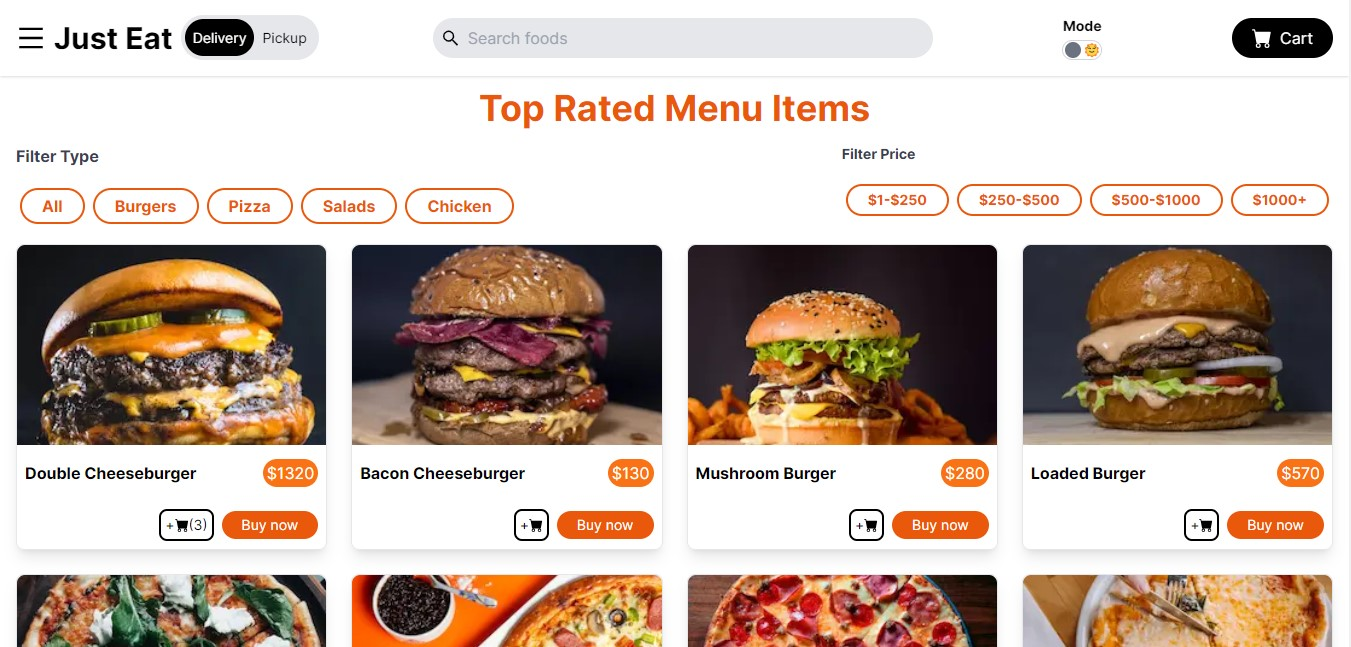
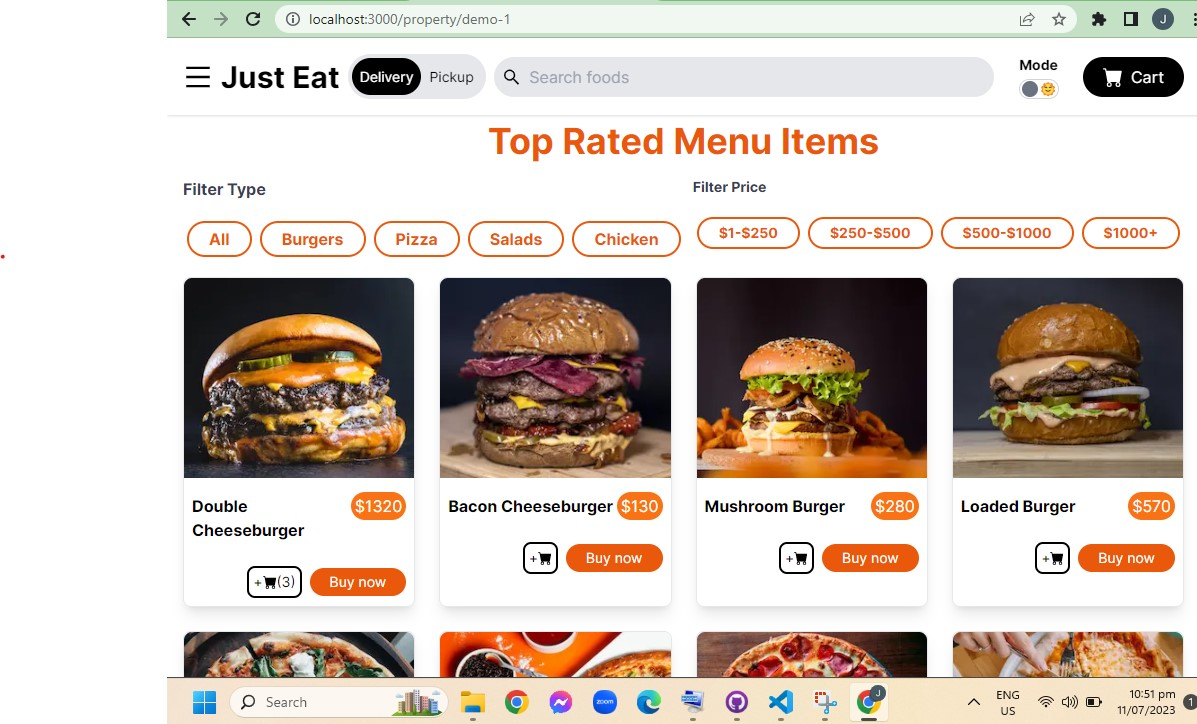
fixed the sizing of the images in projects component

diff --git a/components/ProjectItem.tsx b/components/ProjectItem.tsx
@@ -10,8 +10,8 @@ type ProjectType = {
 
 const ProjectItem = ({title, img, url}: ProjectType ) => {
   return (
-    <div className="relative flex items-center justify-center h-auto w-full shadow-xl shadow-gray-400 rounded-xl p-4 group hover:bg-gradient-to-r from-[#5651e5] to-[#709dff]">
-            <Image className='round-lg group-hover:opacity-10' src={img} alt="property"/>
+    <div className="relative flex items-center justify-center overflow-hidden h-[400px] w-full shadow-xl shadow-gray-400 rounded-xl p-4 group hover:bg-gradient-to-r from-[#5651e5] to-[#709dff]">
+            <Image className='round-lg group-hover:opacity-10 h-full w-full rounded-lg' src={img} alt="property"/>
             <div className="hidden group-hover:block absolute top-[50-%] left-[50%] translate-x-[-50%] translate-y-[-50%]">
               <h3 className='text-2xl text-white tracking-wider text-center font-bold'>{title}</h3>
               <p className='text-xl pb-4 pt-2 text-white text-center'>React JS</p>
